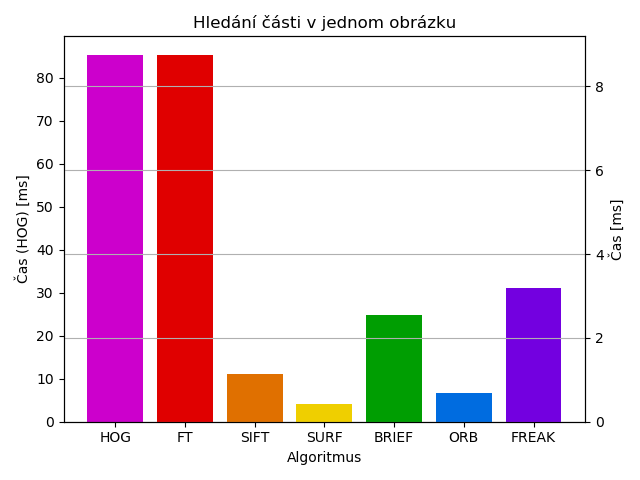
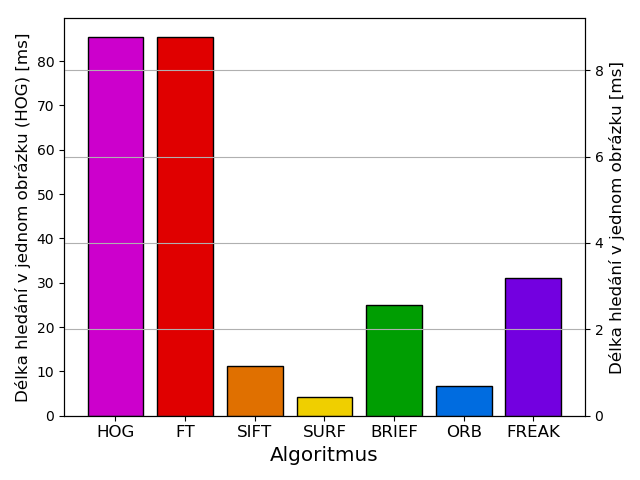
Title is optional, added black edges to all other charts for consistency, rewrote texts, made them larger

Changed region(s): [[0.0, 0.0312, 0.9688, 0.9688]]

diff --git a/src/scripts/charts/generateCharts2.py b/src/scripts/charts/generateCharts2.py
@@ -8,25 +8,34 @@ OUTPUT_DIR = "./output"
 
 COLORS = ["#cc00cc", "#e00000", "#e07000", "#efcf00", "#009e02", "#006ce0", "#7300e0"]
 
-def plotSingleAxisSingleData(data, title, yAxisLabel,
-                             percentage=False, filename=None, show=False):
+def plotSingleAxisSingleData(data, yAxisLabel,
+                             title=None, percentage=False, filename=None, show=False):
     algorithms = list(data.keys())
     values = list(data.values())
     fig, ax = plt.subplots()
 
     index = np.arange(len(algorithms))
 
-    ax.set_title(title)
+    if not title is None:
+        ax.set_title(title)
 
     ax.set_xlabel("Algoritmus")
+    ax.xaxis.label.set_fontsize("x-large")
     ax.set_xticks(index)
     ax.set_xticklabels(algorithms)
+    for tick in ax.get_xticklabels():
+        tick.set_fontsize("large")
 
     ax.set_ylabel(yAxisLabel)
+    if len(yAxisLabel) <= 30:
+        ax.yaxis.label.set_fontsize("x-large")
+    else:
+        ax.yaxis.label.set_fontsize("large")
+
     if percentage:
         ax.yaxis.set_major_formatter(FuncFormatter(lambda y, _: f"{(100 * y):.0f} %"))
 
-    ax.bar(index, values, color=COLORS)
+    ax.bar(index, values, color=COLORS, edgecolor="black")
 
     plt.grid(True, axis="y")
     plt.tight_layout()
@@ -37,33 +46,45 @@ def plotSingleAxisSingleData(data, title, yAxisLabel,
         plt.savefig(os.path.abspath(f"{OUTPUT_DIR}/{filename}"))
 
 
-def plotTwinAxesSingleData(leftData, rightData, title, leftYAxisLabel, rightYAxisLabel,
-                           filename=None, show=False):
+def plotTwinAxesSingleData(leftData, rightData, leftYAxisLabel, rightYAxisLabel,
+                           title=None, filename=None, show=False):
     leftAlgorithms = list(leftData.keys())
     leftValues = list(leftData.values())
     rightAlgorithms = list(rightData.keys())
     rightValues = list(rightData.values())
-    fig, ax = plt.subplots()
+    fig, left = plt.subplots()
 
     algorithms = leftAlgorithms + rightAlgorithms
     index = np.arange(len(algorithms))
 
-    ax.set_title(title)
+    if not title is None:
+        left.set_title(title)
 
-    ax.set_xticks(index)
-    ax.set_xticklabels(algorithms)
-    ax.set_xlabel("Algoritmus")
+    left.set_xlabel("Algoritmus")
+    left.xaxis.label.set_fontsize("x-large")
+    left.set_xticks(index)
+    left.set_xticklabels(algorithms)
+    for tick in left.get_xticklabels():
+        tick.set_fontsize("large")
 
-    ax.set_ylabel(leftYAxisLabel)
+    left.set_ylabel(leftYAxisLabel)
+    if len(leftYAxisLabel) <= 30:
+        left.yaxis.label.set_fontsize("x-large")
+    else:
+        left.yaxis.label.set_fontsize("large")
 
     # assume HOG is on the first index
-    ax.bar(index[:len(leftAlgorithms)], leftValues, color=COLORS[:len(leftAlgorithms)])
+    left.bar(index[:len(leftAlgorithms)], leftValues, color=COLORS[:len(leftAlgorithms)], edgecolor="black")
 
-    ax2 = ax.twinx()
+    right = left.twinx()
 
-    ax2.set_ylabel(rightYAxisLabel)
+    right.set_ylabel(rightYAxisLabel)
+    if len(rightYAxisLabel) <= 30:
+        right.yaxis.label.set_fontsize("x-large")
+    else:
+        right.yaxis.label.set_fontsize("large")
 
-    ax2.bar(index[len(leftAlgorithms):], rightValues, color=COLORS[len(leftAlgorithms):]) # except first (which is HOG)
+    right.bar(index[len(leftAlgorithms):], rightValues, color=COLORS[len(leftAlgorithms):], edgecolor="black") # except first (which is HOG)
 
     plt.grid(True, axis="y")
     plt.tight_layout()
@@ -74,8 +95,8 @@ def plotTwinAxesSingleData(leftData, rightData, title, leftYAxisLabel, rightYAxi
         plt.savefig(os.path.abspath(f"{OUTPUT_DIR}/{filename}"))
 
 # assume it's pairs of data, all containing same number of items
-def plotTwinAxesTwinData(leftData, rightData, title, leftYAxisLabel, rightYAxisLabel, leftLegend, rightLegend,
-                         filename=None, show=False):
+def plotTwinAxesTwinData(leftData, rightData, leftYAxisLabel, rightYAxisLabel, leftLegend, rightLegend,
+                         title=None, filename=None, show=False):
     fig, left = plt.subplots()
 
     right = left.twinx()
@@ -88,13 +109,27 @@ def plotTwinAxesTwinData(leftData, rightData, title, leftYAxisLabel, rightYAxisL
 
     index = np.arange(len(labels))
 
-    left.set_title(title)
+    if not title is None:
+        left.set_title(title)
+
     left.set_xlabel("Algoritmus")
+    left.xaxis.label.set_fontsize("x-large")
     left.set_xticks(index)
     left.set_xticklabels(labels)
+    for tick in left.get_xticklabels():
+        tick.set_fontsize("large")
 
     left.set_ylabel(leftYAxisLabel)
+    if len(leftYAxisLabel) <= 30:
+        left.yaxis.label.set_fontsize("x-large")
+    else:
+        left.yaxis.label.set_fontsize("large")
     right.set_ylabel(rightYAxisLabel)
+    if len(rightYAxisLabel) <= 30:
+        right.yaxis.label.set_fontsize("x-large")
+    else:
+        right.yaxis.label.set_fontsize("large")
+
 
     l1 = left.bar(index - barWidth / 2, leftValues, barWidth, color=COLORS, edgecolor="black")
     l2 = right.bar(index + barWidth / 2, rightValues, barWidth, color=COLORS, hatch="x", edgecolor="black")
@@ -174,43 +209,37 @@ def cherryPick(dictionary, keys, include=True):
 print("Generating charts...")
 
 plotSingleAxisSingleData(data=data.DATA_SINGLE["accuracy"],
-                         title="Přesnost hledání",
                          yAxisLabel="Přesnost [%]",
                          percentage=True,
                          filename="single/new/accuracy.png")
 plotTwinAxesSingleData(leftData=cherryPick(data.DATA_SINGLE["matchingSingle"], ("HOG")),
                        rightData=cherryPick(data.DATA_SINGLE["matchingSingle"], ("HOG"), include=False),
-                       title="Hledání části v jednom obrázku",
-                       leftYAxisLabel="Čas (HOG) [ms]",
-                       rightYAxisLabel="Čas [ms]",
+                       leftYAxisLabel="Délka hledání v jednom obrázku (HOG) [ms]",
+                       rightYAxisLabel="Délka hledání v jednom obrázku [ms]",
                        filename="single/new/matching.png")
 plotTwinAxesSingleData(leftData=cherryPick(data.DATA_SINGLE["partProcess"], ("HOG")),
                        rightData=cherryPick(data.DATA_SINGLE["partProcess"], ("HOG"), include=False),
-                       title="Zpracování celé části",
-                       leftYAxisLabel="Čas (HOG) [ms]",
-                       rightYAxisLabel="Čas [ms]",
+                       leftYAxisLabel="Délka zpracování celé části (HOG) [ms]",
+                       rightYAxisLabel="Délka zpracování celé části [ms]",
                        filename="single/new/partProcess.png")
 plotTwinAxesSingleData(leftData=cherryPick(data.DATA_SINGLE["totalTime"], ("HOG")),
                        rightData=cherryPick(data.DATA_SINGLE["totalTime"], ("HOG"), include=False),
-                       title="Celkový čas",
-                       leftYAxisLabel="Čas (HOG) [ms]",
-                       rightYAxisLabel="Čas [ms]",
+                       leftYAxisLabel="Celkový čas (HOG) [ms]",
+                       rightYAxisLabel="Celkový čas [ms]",
                        filename="single/new/totalTime.png")
 plotTwinAxesTwinData(leftData=data.DATA_SINGLE["descriptorPart"],
                      rightData=data.DATA_SINGLE["descriptorImage"],
-                     title="Výpočet deskriptoru",
-                     leftYAxisLabel="Části - čas [ms]",
-                     rightYAxisLabel="Obrázku - čas [ms]",
-                     leftLegend="Výpočet deskriptoru části",
-                     rightLegend="Výpočet deskriptoru obrázku",
+                     leftYAxisLabel="Délka výpočtu deskriptoru části [ms]",
+                     rightYAxisLabel="Délka výpočtu deskriptoru obrázku [ms]",
+                     leftLegend="Část",
+                     rightLegend="Obrázek",
                      filename="single/new/descriptor.png")
 plotTwinAxesTwinData(leftData=data.DATA_SINGLE["descriptorPartSize"],
                      rightData=data.DATA_SINGLE["descriptorImageSize"],
-                     title="Průměrná velikost deskriptoru",
-                     leftYAxisLabel="Části",
-                     rightYAxisLabel="Obrázku",
-                     leftLegend="Velikost deskriptoru části",
-                     rightLegend="Velikost deskriptoru obrázku",
+                     leftYAxisLabel="Velikost deskriptoru části",
+                     rightYAxisLabel="Velikost deskriptoru obrázku",
+                     leftLegend="Část",
+                     rightLegend="Obrázek",
                      filename="single/new/descriptorSize.png")
 
 print("Done!")
